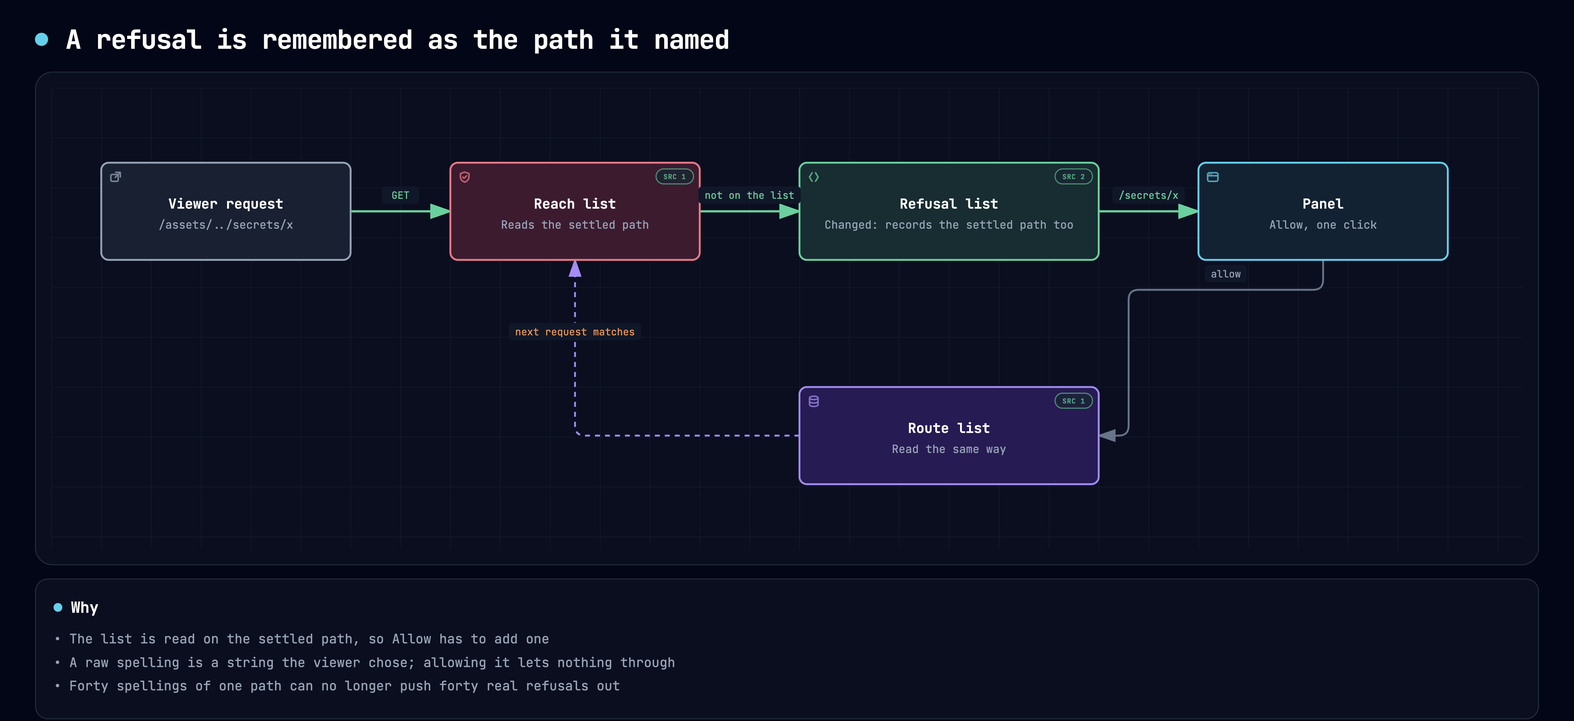
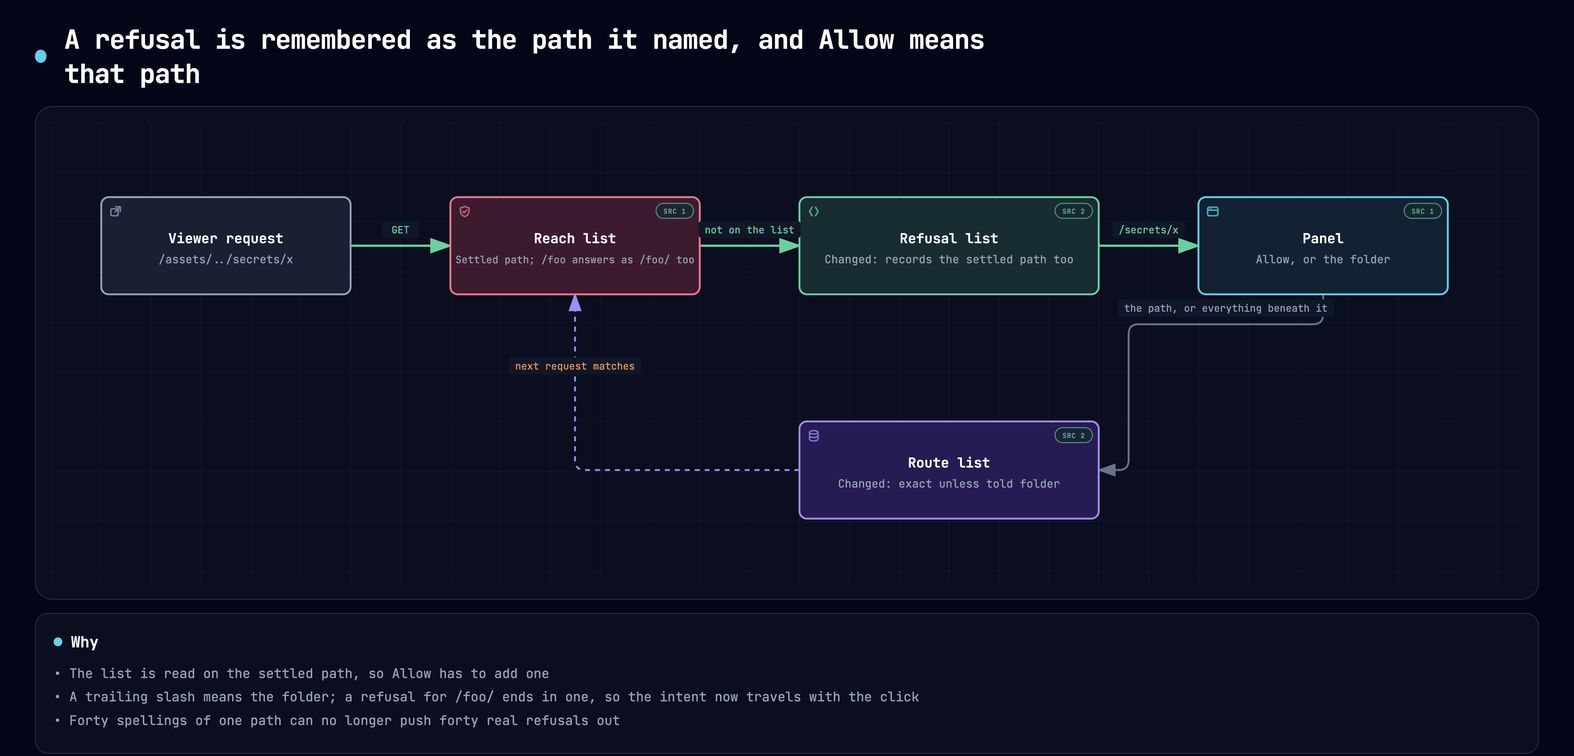
leglas: change map for pull request 61 covers the folder button too

diff --git a/projects/leglas/pull-requests/0061-refusal-settled/change-map.html b/projects/leglas/pull-requests/0061-refusal-settled/change-map.html
@@ -4,7 +4,7 @@
   <meta charset="UTF-8">
   <meta name="viewport" content="width=device-width, initial-scale=1.0">
   <meta name="generator" content="archify 2.17.0-dev.1">
-  <title>A refusal is remembered as the path it named Diagram</title>
+  <title>A refusal is remembered as the path it named, and Allow means that path Diagram</title>
   <script>
     // Resolve the theme before first paint so light-preference users don't
     // see a dark flash. The toolbar script below re-applies with UI state.
@@ -4955,12 +4955,12 @@
            data-preset-badge-blueprint="BLUEPRINT / REV 01"
            data-preset-badge-editorial="EDITORIAL / FIELD NOTE">
         <div class="pulse-dot"></div>
-        <h1>A refusal is remembered as the path it named</h1>
+        <h1>A refusal is remembered as the path it named, and Allow means that path</h1>
       </div>
     </div>
 
     <script id="archify-guided-views-data" type="application/json">[]</script>
-    <script id="archify-source-evidence-data" type="application/json">{"schemaVersion":1,"verified":true,"repository":{"url":"https://github.com/FredAmartey/leglas","revision":"210f2bacb432c3f054290c20ea1be06701551b32","shortRevision":"210f2ba"},"referenceCount":4,"nodes":{"list":[{"path":"packages/server/src/share.ts","line":101,"label":"routeAllowed","href":"https://github.com/FredAmartey/leglas/blob/210f2bacb432c3f054290c20ea1be06701551b32/packages/server/src/share.ts#L101"}],"refused":[{"path":"packages/server/src/share.ts","line":1208,"label":"request","href":"https://github.com/FredAmartey/leglas/blob/210f2bacb432c3f054290c20ea1be06701551b32/packages/server/src/share.ts#L1208"},{"path":"packages/server/src/share.ts","line":404,"label":"canonical","href":"https://github.com/FredAmartey/leglas/blob/210f2bacb432c3f054290c20ea1be06701551b32/packages/server/src/share.ts#L404"}],"routes":[{"path":"packages/server/src/share.ts","line":1523,"label":"allowRoute","href":"https://github.com/FredAmartey/leglas/blob/210f2bacb432c3f054290c20ea1be06701551b32/packages/server/src/share.ts#L1523"}]}}</script>
+    <script id="archify-source-evidence-data" type="application/json">{"schemaVersion":1,"verified":true,"repository":{"url":"https://github.com/FredAmartey/leglas","revision":"33f286f5ee3edfad5696799b97d1b4774b6cae2b","shortRevision":"33f286f"},"referenceCount":6,"nodes":{"list":[{"path":"packages/server/src/share.ts","line":101,"label":"routeAllowed","href":"https://github.com/FredAmartey/leglas/blob/33f286f5ee3edfad5696799b97d1b4774b6cae2b/packages/server/src/share.ts#L101"}],"refused":[{"path":"packages/server/src/share.ts","line":1214,"label":"request","href":"https://github.com/FredAmartey/leglas/blob/33f286f5ee3edfad5696799b97d1b4774b6cae2b/packages/server/src/share.ts#L1214"},{"path":"packages/server/src/share.ts","line":410,"label":"canonical","href":"https://github.com/FredAmartey/leglas/blob/33f286f5ee3edfad5696799b97d1b4774b6cae2b/packages/server/src/share.ts#L410"}],"panel":[{"path":"packages/shell/src/SharePanel.tsx","line":564,"label":"folder button","href":"https://github.com/FredAmartey/leglas/blob/33f286f5ee3edfad5696799b97d1b4774b6cae2b/packages/shell/src/SharePanel.tsx#L564"}],"routes":[{"path":"packages/server/src/share.ts","line":1529,"label":"allowRoute","href":"https://github.com/FredAmartey/leglas/blob/33f286f5ee3edfad5696799b97d1b4774b6cae2b/packages/server/src/share.ts#L1529"},{"path":"packages/server/src/share.ts","line":1541,"label":"subtree","href":"https://github.com/FredAmartey/leglas/blob/33f286f5ee3edfad5696799b97d1b4774b6cae2b/packages/server/src/share.ts#L1541"}]}}</script>
     <script id="archify-i18n-data" type="application/json">{"locale":"en","messages":{"viewer.kind.frontend":"Frontend","viewer.kind.backend":"Backend","viewer.kind.database":"Database","viewer.kind.cloud":"Cloud","viewer.kind.security":"Security","viewer.kind.messagebus":"Message bus","viewer.kind.external":"External","viewer.kind.neutral":"Neutral","viewer.kind.node":"Node","viewer.kind.start":"Start","viewer.kind.active":"Active","viewer.kind.waiting":"Waiting","viewer.kind.decision":"Decision","viewer.kind.success":"Success","viewer.kind.failure":"Failure","viewer.toolbar.actions":"Diagram actions","viewer.theme.toggle.title":"Toggle theme (T)","viewer.theme.toggle":"Toggle color theme","viewer.theme.dark":"Dark","viewer.theme.light":"Light","viewer.preset.choose.title":"Choose visual style (S cycles)","viewer.preset.choose":"Choose visual style","viewer.preset.style":"Style","viewer.preset.menu":"Visual style","viewer.preset.identity":"Visual identity","viewer.preset.cycles":"S cycles","viewer.preset.classic":"Classic","viewer.preset.classic.short":"Classic","viewer.preset.classic.hint":"Stable technical default","viewer.preset.flow":"Signal Flow","viewer.preset.flow.short":"Flow","viewer.preset.flow.hint":"Motion-forward presentation","viewer.preset.blueprint":"Blueprint","viewer.preset.blueprint.hint":"Engineering review","viewer.preset.editorial":"Editorial","viewer.preset.editorial.hint":"Publication and launch notes","viewer.preset.badge.signalFlow":"SIGNAL FLOW","viewer.preset.badge.blueprint":"BLUEPRINT / REV 01","viewer.preset.badge.editorial":"EDITORIAL / FIELD NOTE","viewer.preset.badge.editorialPlate":"ARCHIFY / PLATE 04","viewer.preset.current":"Visual style: {style}. Choose visual style","viewer.motion.live":"Live","viewer.motion.still":"Still","viewer.motion.pause":"Pause motion","viewer.motion.resume":"Resume motion","viewer.motion.reduced":"Motion paused by reduced-motion preference","viewer.motion.hidden":"Motion paused while this page is hidden","viewer.motion.yielding":"Pause motion; currently yielding to {owner}","viewer.motion.yielding.title":"Live preview enabled · yielding to {owner}","viewer.owner.story":"the guided story","viewer.owner.chapter":"the active chapter","viewer.owner.chapterPreview":"the chapter delta preview","viewer.owner.handoff":"the chapter handoff","viewer.owner.route":"Route Probe","viewer.owner.lens":"Semantic Lens","viewer.owner.relationship":"Relationship Preview","viewer.owner.intent":"Intent Trace","viewer.owner.focus":"semantic focus","viewer.owner.legend":"legend preview","viewer.owner.reader":"reader interaction","viewer.present.enter":"Enter presentation stage","viewer.present.enter.title":"Presentation stage (F)","viewer.present.exit":"Exit presentation stage","viewer.present.exit.title":"Exit presentation stage (F or Escape)","viewer.present.present":"Present","viewer.present.exit.label":"Exit","viewer.export.button":"Export","viewer.export.button.title":"Export diagram (E)","viewer.export.diagram":"Export diagram","viewer.export.menu":"Export","viewer.export.subtitle":"Portable, clean outputs","viewer.export.share":"Share","viewer.export.shareCard":"Share Card","viewer.export.routeShareCard":"Route Share Card","viewer.export.reachShareCard":"Reach Share Card","viewer.export.copyShareCard":"Copy Share Card","viewer.export.copyDiagram":"Copy diagram","viewer.export.clipboardPng":"PNG to clipboard","viewer.export.raster":"Raster images","viewer.export.image":"Image","viewer.export.lossless":"Lossless image","viewer.export.compact":"Compact image","viewer.export.modern":"Modern image","viewer.export.vectorMotion":"Vector and motion","viewer.export.vectorMotion.heading":"Vector \u0026 motion","viewer.export.editable":"Editable vector","viewer.export.motion6s":"6s motion","viewer.export.unsupported":"Not supported by this browser","viewer.export.clipboardUnsupported":"Clipboard image write not supported by this browser","viewer.export.clipboardUnsupported.period":"Clipboard image write not supported by this browser.","viewer.export.clipboardUnsupported.short":"Clipboard image write not supported in this browser.","viewer.export.motionUnavailable":"Motion capture unavailable in this browser","viewer.export.webmUnavailable":"WebM unavailable in this browser","viewer.export.failed":"Export failed: {message}","viewer.export.unknownVariant":"Unknown Share Card variant: {variant}","viewer.export.routeRequired":"Trace a route before exporting a Route Share Card","viewer.export.reachRequired":"Trace authored reach before exporting a Reach Share Card","viewer.export.unknown":"unknown","viewer.export.routeFailed":"Route Share Card export failed: {message}","viewer.export.reachFailed":"Reach Share Card export failed: {message}","viewer.export.copyFailed":"Copy failed: {message}","viewer.export.copiedPng":"Copied PNG to clipboard","viewer.export.copiedShare":"Copied Share Card","viewer.export.downloadedShare":"Downloaded Share Card","viewer.export.downloadedRoute":"Downloaded Route Share Card","viewer.export.downloadedReach":"Downloaded Reach Share Card","viewer.export.downloadedWebm":"Downloaded WebM","viewer.export.recording":"Recording 6 seconds of motion…","viewer.export.card.routeSummary.one":"Route: {source} → {target} · {count} directed hop","viewer.export.card.routeSummary.other":"Route: {source} → {target} · {count} directed hops","viewer.export.card.reachSummary":"Authored {direction} from {origin} · {nodes} · {links} · max {hops}","viewer.export.card.node.one":"{count} node","viewer.export.card.node.other":"{count} nodes","viewer.export.card.link.one":"{count} link","viewer.export.card.link.other":"{count} links","viewer.export.card.hop.one":"{count} hop","viewer.export.card.hop.other":"{count} hops","viewer.export.card.routeBadge":"ARCHIFY · ROUTE · {hops}","viewer.export.card.reachBadge":"ARCHIFY · {direction} REACH","viewer.export.card.defaultBadge":"ARCHIFY · {preset} · {theme}","viewer.export.direction.upstream":"Upstream","viewer.export.direction.downstream":"Downstream","viewer.export.error.canvasUnavailable":"Canvas unavailable for {label}","viewer.export.error.contextUnavailable":"2D canvas context unavailable for {label}","viewer.export.error.toBlobUnavailable":"canvas.toBlob unavailable for {label}","viewer.export.error.toBlobNull":"canvas.toBlob returned no data for {label}","viewer.export.error.variantsCombined":"Share Card variants cannot be combined","viewer.export.error.viewerState":"Share Card export could not remove temporary viewer state","viewer.export.error.routeState":"Route Card export could not preserve the resolved route safely","viewer.export.error.reachState":"Reach Card export could not preserve authored reach safely","viewer.export.error.webmRequirements":"WebM motion export requires a trace animation and browser MediaRecorder support","viewer.export.error.mediaRecorder":"MediaRecorder failed","viewer.export.error.emptyWebm":"MediaRecorder produced an empty WebM","viewer.export.error.webmBackground":"SVG background could not be loaded for WebM export","viewer.guided.region":"Guided diagram views","viewer.guided.previous":"Previous guided view","viewer.guided.previous.title":"Previous guided view ([)","viewer.guided.next":"Next guided view","viewer.guided.next.title":"Next guided view (])","viewer.guided.views":"Guided views","viewer.guided.explore":"Explore this system","viewer.guided.intro":"Step through curated paths without changing the source diagram.","viewer.guided.trail":"Story trail","viewer.guided.beat":"Beat","viewer.guided.nextBeat":"Next","viewer.guided.play":"Play guided story","viewer.guided.play.title":"Play guided story (P)","viewer.guided.pause":"Pause guided story","viewer.guided.pause.title":"Pause guided story (P)","viewer.guided.replay":"Replay guided story","viewer.guided.replay.title":"Replay guided story (P)","viewer.guided.playStory":"Play story","viewer.guided.pauseStory":"Pause","viewer.guided.replayStory":"Replay story","viewer.guided.motionUnavailable":"Story playback unavailable while motion is Still","viewer.guided.enableMotion":"Switch motion to Live to play the guided story","viewer.guided.selectBeatLink":"Select a Story Beat to copy its exact link","viewer.guided.copyMoment":"Copy moment","viewer.guided.momentCopied":"Moment link copied","viewer.guided.momentCopyFailed":"Could not copy story moment link","viewer.guided.copied":"Copied","viewer.guided.copyFailed":"Copy failed","viewer.guided.showAll":"Show all","viewer.guided.showAll.aria":"Show entire diagram","viewer.guided.chapters":"Story chapters","viewer.guided.storyTrail":"Story trail for {label}: {count} beats","viewer.guided.chapter.open":"Open chapter {index} of {total}: {label}, {count} stops","viewer.guided.chapter.current":"Current chapter {index} of {total}: {label}, {count} stops","viewer.guided.chapter.selectedNodes":"{count} selected nodes","viewer.guided.chapter.stops":"{count} stops","viewer.guided.chapter.stop.one":"{count} stop","viewer.guided.chapter.stop.other":"{count} stops","viewer.guided.chapter.current.title":"{label} — current chapter, {count} stops","viewer.guided.chapter.delta.expanded":"{stay} stay, {enter} enter, {leave} leave","viewer.guided.chapter.delta.aria":"Open chapter {index} of {total}: {label}. Chapter focus delta: {delta}","viewer.guided.chapter.delta.title":"{label} — {delta} chapter focus","viewer.guided.handoff":"{from} → {to} · via {label}","viewer.guided.share.chapter":"Chapter {index} / {total}","viewer.guided.share.initial":"Chapter 01 / 01","viewer.guided.share.default":"Guided chapter","viewer.guided.state.ready":"Ready","viewer.guided.state.playing":"Playing","viewer.guided.state.settled":"Settled","viewer.guided.state.paused":"Paused","viewer.guided.state.pinned":"Pinned","viewer.guided.state.still":"Still","viewer.guided.share.step":"Step {index} / {total} · {label}","viewer.guided.share.staticMoment":"{step} · Static moment","viewer.guided.share.complete":"{count} steps complete · {note}","viewer.guided.share.settled":"Path settled for reading.","viewer.guided.share.staticPath":"{count} steps · Static path","viewer.guided.share.ready":"{count} steps · Ready","viewer.guided.share.aria":"{state} chapter {index} of {total}: {label}. {beat}. {route}","viewer.guided.beat.start":"Beat {index} / {total} · {label} · starting point","viewer.guided.beat.forward":"Beat {index} / {total} · {from} → {to}","viewer.guided.beat.reverse":"Beat {index} / {total} · {from} → {to} · reverse authored link","viewer.guided.beat.multiple":"Beat {index} / {total} · {from} ⇄ {to} · {count} authored links","viewer.guided.beat.group":"Beat {index} / {total} · {from} · {to} · grouped · no direct link","viewer.guided.beat.aria.prefix":"Story beat {index} of {total}: {label}. ","viewer.guided.beat.aria.start":"Starting point.","viewer.guided.beat.aria.forward":"From {from} through one authored forward relationship.","viewer.guided.beat.aria.reverse":"From {from}; the authored relationship points from {to} to {from}.","viewer.guided.beat.aria.multiple":"From {from} through {count} authored relationships; shown without arbitrary motion.","viewer.guided.beat.aria.group":"Grouped from {from} with no direct authored relationship.","viewer.guided.caption.start":"Starting point","viewer.guided.caption.grouped":"Grouped transition · no direct authored link","viewer.guided.caption.more":" +{count} more","viewer.guided.caption.reverse":"Reverse authored relationship","viewer.guided.caption.relationships":"{count} authored relationships","viewer.guided.caption.relationship":"Authored relationship","viewer.guided.caption.direction":"authored direction: {from} → {to}","viewer.guided.caption.starting":"Authored starting point","viewer.guided.beatLink":"Copy link to current story moment: Beat {index} of {total}: {label}","viewer.guided.noStory":"This diagram has no authored guided story.","viewer.guide.eyebrow":"Diagram guide","viewer.guide.close":"Close diagram guide","viewer.guide.inspecting":"Inspecting compiled semantics","viewer.guide.actions":"Diagram exploration actions","viewer.guide.find":"Find any node","viewer.guide.find.hint":"Search labels, responsibilities, kinds, and stable IDs.","viewer.guide.route":"Trace a route","viewer.guide.route.aria":"Trace a directed route","viewer.guide.route.hint":"Ask how two semantic nodes connect in authored direction.","viewer.guide.map":"See the whole system","viewer.guide.map.hint":"Open Semantic Radar with a live viewport and stable nodes.","viewer.guide.lens":"Compare semantic kinds","viewer.guide.lens.hint":"Count roles, reveal their traffic, and compare direct authored links.","viewer.guide.story":"Play the guided story","viewer.guide.story.hint":"Walk the authored chapters and real relationships.","viewer.guide.present":"Enter Presentation Stage","viewer.guide.present.hint":"Give the live diagram the viewport without changing export.","viewer.guide.shortcuts":"Additional keyboard shortcuts","viewer.guide.shortcut.export":"Export","viewer.guide.shortcut.theme":"Theme","viewer.guide.shortcut.style":"Style","viewer.guide.shortcut.reset":"Reset","viewer.guide.shortcut.zoomIn":"Zoom in","viewer.guide.shortcut.zoomOut":"Zoom out","viewer.guide.shortcut.close":"Close","viewer.guide.facts":"{nodes} · {relationships} · {views}","viewer.guide.fact.node.one":"{count} semantic node","viewer.guide.fact.node.other":"{count} semantic nodes","viewer.guide.fact.relationship.one":"{count} relationship","viewer.guide.fact.relationship.other":"{count} relationships","viewer.guide.fact.view.one":"{count} guided view","viewer.guide.fact.view.other":"{count} guided views","viewer.guide.story.available.one":"Walk {count} authored chapter and its real relationships.","viewer.guide.story.available.other":"Walk {count} authored chapters and their real relationships.","viewer.guide.story.unavailable":"No authored guided story in this diagram.","viewer.guide.open":"Open diagram guide","viewer.guide.noStory":"This diagram has no authored guided story.","viewer.finder.title":"Find a node","viewer.finder.close":"Close node finder","viewer.finder.placeholder":"Search labels or IDs","viewer.finder.search":"Search diagram nodes","viewer.finder.results":"Diagram nodes","viewer.finder.empty":"No matching nodes","viewer.finder.result.focus":"Focus {label}","viewer.finder.result.routeStart":"Choose {label} as route start","viewer.finder.result.routeTarget":"Choose {label} as route destination, {links}","viewer.finder.status.empty":"No matching nodes","viewer.finder.status.count.one":"{count} matching node","viewer.finder.status.count.other":"{count} matching nodes","viewer.finder.noun.nodes":"nodes","viewer.finder.link.one":"{count} link","viewer.finder.link.other":"{count} links","viewer.finder.result.focus.one":"Focus {label}, {count} related connection","viewer.finder.result.focus.other":"Focus {label}, {count} related connections","viewer.finder.status.filtered":"{visible} of {available} {noun}","viewer.finder.status.all":"{available} {noun}","viewer.passport.eyebrow":"Semantic passport","viewer.passport.metadata":"Node metadata","viewer.passport.evidence":"Verified source evidence","viewer.passport.verified":"Verified source","viewer.passport.reach":"Authored reach","viewer.passport.reach.trace":"Trace authored reachability","viewer.passport.upstream":"Upstream","viewer.passport.downstream":"Downstream","viewer.passport.upstream.trace":"Trace upstream authored reachability","viewer.passport.downstream.trace":"Trace downstream authored reachability","viewer.passport.close":"Close semantic passport","viewer.passport.copy":"Copy link","viewer.passport.copy.focus":"Copy link to focused node","viewer.passport.relations":"Relations","viewer.passport.relations.show":"Show connected relationships","viewer.passport.relations.hide":"Hide connected relationships","viewer.passport.relations.list":"Connected relationships","viewer.passport.copyRelation":"Copy relation","viewer.passport.copyNode":"Copy node","viewer.passport.copyPinned":"Copy link to pinned relationship","viewer.passport.copySource":"Copy link to source node","viewer.passport.copy.focused.success":"Focused node link copied","viewer.passport.copy.pinned.success":"Pinned relationship link copied","viewer.passport.copy.focused.failed":"Could not copy focused node link","viewer.passport.copy.pinned.failed":"Could not copy pinned relationship link","viewer.passport.relationship.none":"No connected relationships","viewer.passport.relationship.count.one":"{count} relation","viewer.passport.relationship.count.other":"{count} relations","viewer.passport.relationship.show.one":"Show {count} connected relationship","viewer.passport.relationship.show.other":"Show {count} connected relationships","viewer.passport.relationship.summary":"{out} outgoing · {in} incoming{loops}","viewer.passport.relationship.loops":" · {count} loop","viewer.passport.relationship.explorer":"Direct relationship explorer","viewer.passport.relationship.help":"Use arrow keys to explore relationships. Press Enter or Space to pin details; Escape clears.","viewer.passport.relationship.loopsBack":"loops back","viewer.passport.relationship.connectsTo":"connects to","viewer.passport.relationship.connectsFrom":"connects from","viewer.passport.relationship.pinned":"Pinned relationship · {from} → {to} · {label}","viewer.passport.relationship.inspect":"Inspect relationship {index} of {total}: {from} to {to}, {label}. Press Enter for details.","viewer.passport.relationship.group.out":"Outgoing","viewer.passport.relationship.group.in":"Incoming","viewer.passport.relationship.group.loop":"Self loops","viewer.passport.relationship.row":"{group}: {relationship}, {neighbor}","viewer.passport.relationship.direction.out":"OUT →","viewer.passport.relationship.direction.in":"← IN","viewer.passport.relationship.direction.loop":"LOOP","viewer.passport.sourceCount.one":"{count} verified source reference","viewer.passport.sourceCount.other":"{count} verified source references","viewer.passport.sourceMarker":"SRC","viewer.passport.beacon.one":"{count} verified source; focus this node to inspect","viewer.passport.beacon.other":"{count} verified sources; focus this node to inspect","viewer.passport.repository.open":"Open verified repository revision {revision}","viewer.passport.source.open":"Open verified source {path} at revision {revision}","viewer.passport.source.openLink":"Open ↗","viewer.passport.reach.upstream.one":"Trace {count} upstream authored node","viewer.passport.reach.upstream.other":"Trace {count} upstream authored nodes","viewer.passport.reach.downstream.one":"Trace {count} downstream authored node","viewer.passport.reach.downstream.other":"Trace {count} downstream authored nodes","viewer.passport.reach.noUpstream":"No upstream authored nodes","viewer.passport.reach.noDownstream":"No downstream authored nodes","viewer.passport.reach.status":"{direction} · {nodes} nodes · {links} links · max {hops} hops","viewer.route.eyebrow":"Route probe","viewer.route.start":"Choose a start node","viewer.route.start.find":"Find start","viewer.route.start.find.aria":"Find a route start","viewer.route.copy":"Copy link","viewer.route.copy.aria":"Copy link to traced route","viewer.route.clear":"Clear","viewer.route.clear.aria":"Clear route probe","viewer.route.traced":"Traced route","viewer.route.pickTwo":"Pick two semantic nodes on the diagram","viewer.route.pickOne":"Pick a semantic node on the diagram","viewer.route.controls":"Route journey controls","viewer.route.previous":"Previous route position","viewer.route.play":"Play route journey","viewer.route.pause":"Pause route journey","viewer.route.replay":"Replay route journey","viewer.route.next":"Next route position","viewer.route.journey":"Journey","viewer.route.pause.label":"Pause","viewer.route.replay.label":"Replay","viewer.route.overview":"Overview","viewer.route.overview.aria":"Show complete route overview","viewer.route.instructions":"Choose the source, then the destination. Direction matters.","viewer.route.destination":"Choose a destination from {label}","viewer.route.destination.find":"Find target","viewer.route.destination.find.aria":"Find a reachable route destination","viewer.route.differentDestination":"Choose a different destination","viewer.route.distinct":"A route needs two distinct semantic nodes.","viewer.route.unreachable":"No directed route to {label}","viewer.route.unreachable.detail":"{target} is not reachable from {source}. Pick a highlighted destination.","viewer.route.start.instructions":"Select the source. The next step will reveal only directed destinations.","viewer.route.copy.success":"Traced route link copied","viewer.route.copy.failed":"Could not copy traced route link","viewer.route.position":"Route position {index} of {total}: {label}","viewer.route.step":"Step {index} of {total} · {phase} · {label}","viewer.route.motionRequired":"Automatic journey requires Live motion","viewer.route.trigger.clear":"Clear traced route","viewer.route.overview.status":"{nodes} · {hops} · shortest authored route","viewer.route.overview.node.one":"{count} node","viewer.route.overview.node.other":"{count} nodes","viewer.route.overview.hop.one":"{count} directed hop","viewer.route.overview.hop.other":"{count} directed hops","viewer.route.phase.playing":"Playing","viewer.route.phase.complete":"Complete","viewer.route.phase.inspecting":"Inspecting","viewer.route.destination.count.one":"{count} directed destination available. Pick a highlighted node.","viewer.route.destination.count.other":"{count} directed destinations available. Pick a highlighted node.","viewer.route.noOutgoing":"No outgoing route starts here. Clear and choose another source.","viewer.route.result.title":"{source} to {target}","viewer.route.finder.source.title":"Choose route start","viewer.route.finder.source.placeholder":"Search route sources","viewer.route.finder.source.empty":"No matching route sources","viewer.route.finder.source.results":"Nodes that can start a route","viewer.route.finder.source.noun":"route sources","viewer.route.finder.source.badge":"start","viewer.route.finder.target.title":"Destination from {label}","viewer.route.finder.target.placeholder":"Search reachable destinations","viewer.route.finder.target.empty":"No matching reachable destinations","viewer.route.finder.target.results":"Reachable route destinations","viewer.route.finder.target.noun":"reachable destinations","viewer.route.hop.one":"{count} hop","viewer.route.hop.other":"{count} hops","viewer.lens.eyebrow":"Semantic lens","viewer.lens.title":"Compare system roles","viewer.lens.close":"Close semantic lens","viewer.lens.instruction":"Choose up to two semantic kinds. One reveals its real traffic; two compare only direct authored relationships.","viewer.lens.kinds":"Semantic kinds","viewer.lens.choose":"Choose a kind to inspect its nodes and touching relationships.","viewer.lens.copy":"Copy link to semantic lens","viewer.lens.clear":"Clear semantic lens","viewer.lens.open":"Open semantic lens","viewer.lens.openActive":"Open active semantic lens","viewer.lens.legend":"Semantic legend","viewer.lens.legend.inspect.one":"Inspect {label}, {count} node","viewer.lens.legend.inspect.other":"Inspect {label}, {count} nodes","viewer.lens.kind.count.one":"{label}, {count} node","viewer.lens.kind.count.other":"{label}, {count} nodes","viewer.lens.compare.one":"{first} → {second}: {forward} · {second} → {first}: {reverse} · {count} direct relationship","viewer.lens.compare.other":"{first} → {second}: {forward} · {second} → {first}: {reverse} · {count} direct relationships","viewer.lens.single":"{nodes} · {relationships} · connected peers remain visible","viewer.lens.node.one":"{count} {label} node","viewer.lens.node.other":"{count} {label} nodes","viewer.lens.relationship.one":"{count} touching relationship","viewer.lens.relationship.other":"{count} touching relationships","viewer.radar.title":"Semantic radar","viewer.radar.building":"Building overview","viewer.radar.openFull":"Open full semantic radar","viewer.radar.open":"Open radar","viewer.radar.close":"Close semantic radar","viewer.radar.surface":"Diagram overview. Click a node to focus it, or use arrow keys to pan.","viewer.radar.click":"Click node","viewer.radar.drag":"Drag to pan","viewer.radar.space":"Semantic radar needs more MAP space.","viewer.radar.nodes":"Semantic diagram radar nodes","viewer.radar.focus":"Focus {label} from Semantic Radar","viewer.radar.status":"{count} nodes · {viewport}","viewer.radar.fullMap":"{count} nodes · full map","viewer.radar.compacted":"Radar compacted to avoid covering the Semantic Passport or MAP controls.","viewer.radar.cancelWaiting":"Cancel semantic radar waiting for more MAP space","viewer.radar.needsSpace":"Semantic radar needs more visible MAP space","viewer.radar.viewport.full":"full map","viewer.radar.viewport.width":"{percent}% width","viewer.radar.viewport.scale":"{percent}% viewport","viewer.nav.controls":"Diagram view controls","viewer.nav.route":"Trace a directed route","viewer.nav.route.title":"Trace route (R)","viewer.nav.route.short":"PATH","viewer.nav.radar":"Open semantic radar","viewer.nav.radar.title":"Semantic radar (M)","viewer.nav.radar.short":"MAP","viewer.nav.lens":"Open semantic lens","viewer.nav.lens.title":"Semantic lens (L)","viewer.nav.lens.short":"LENS","viewer.nav.find":"Find a node","viewer.nav.find.title":"Find a node (/)","viewer.nav.guide":"Open diagram guide","viewer.nav.guide.title":"Diagram guide (?)","viewer.nav.zoomOut":"Zoom out","viewer.nav.zoomOut.title":"Zoom out (-)","viewer.nav.reset":"Reset diagram view","viewer.nav.reset.title":"Reset view (0)","viewer.nav.read":"READ","viewer.nav.zoomIn":"Zoom in","viewer.nav.zoomIn.title":"Zoom in (+)","viewer.nav.camera":"{hint}. Reset diagram view","viewer.nav.camera.title":"{semantic}{hint} · reset view (0)","viewer.nav.camera.semantic":"Semantic camera active · ","viewer.nav.level.map":"MAP","viewer.nav.level.read":"READ","viewer.nav.level.full":"FULL","viewer.nav.level.auto":"AUTO","viewer.nav.detail.map":"Zoom in to reveal relationship labels and node context","viewer.nav.detail.read":"Zoom in again to reveal tags and annotations","viewer.nav.detail.full":"Full diagram detail","viewer.intent.summary":"{label}. {out} outgoing, {in} incoming{loops}. {total} connections. Press Enter for details.","viewer.intent.loops":", {count} self loop","viewer.common.copied":"Copied","viewer.common.copyFailed":"Copy failed","viewer.common.copyLink":"Copy link","viewer.common.clear":"Clear","viewer.common.close":"Close"}}</script>
     <div class="guided-views no-print" id="guided-views" hidden aria-label="Guided diagram views">
       <button id="guided-view-prev" type="button" aria-label="Previous guided view" title="Previous guided view ([)">&#8592;</button>
@@ -5005,7 +5005,7 @@
     <div class="diagram-container" data-detail-level="read"
          data-preset-badge-editorial-plate="ARCHIFY / PLATE 04">
       <svg viewBox="0 0 1180 370" role="img" lang="en" aria-labelledby="archify-diagram-title archify-diagram-description" data-preset="classic" data-quality-profile="showcase">
-        <title id="archify-diagram-title">A refusal is remembered as the path it named</title>
+        <title id="archify-diagram-title">A refusal is remembered as the path it named, and Allow means that path</title>
         <desc id="archify-diagram-description">An architecture diagram generated by Archify.</desc>
         <!-- Definitions -->
         <defs>
@@ -5036,7 +5036,7 @@
         <path data-edge-from="viewer" data-edge-to="list" data-edge-label="GET" data-edge-key="0" data-edge-id="viewer-list" data-composition-points="240,99;320,99" d="M 240 99 L 320 99" class="a-emphasis" stroke-width="1.8" marker-end="url(#arrowhead-emphasis)"/>
         <path data-edge-from="list" data-edge-to="refused" data-edge-label="not on the list" data-edge-key="1" data-edge-id="list-refused" data-composition-points="520,99;600,99" d="M 520 99 L 600 99" class="a-emphasis" stroke-width="1.8" marker-end="url(#arrowhead-emphasis)"/>
         <path data-edge-from="refused" data-edge-to="panel" data-edge-label="/secrets/x" data-edge-key="2" data-edge-id="refused-panel" data-composition-points="840,99;920,99" d="M 840 99 L 920 99" class="a-emphasis" stroke-width="1.8" marker-end="url(#arrowhead-emphasis)"/>
-        <path data-edge-from="panel" data-edge-to="routes" data-edge-label="allow" data-edge-key="3" data-edge-id="panel-routes" data-composition-points="1020,138;1020,162;864,162;864,279;840,279" d="M 1020 138 L 1020 154 Q 1020 162 1012 162 L 872 162 Q 864 162 864 170 L 864 271 Q 864 279 856 279 L 840 279" class="a-default" stroke-width="1.5" marker-end="url(#arrowhead)"/>
+        <path data-edge-from="panel" data-edge-to="routes" data-edge-label="the path, or everything beneath it" data-edge-key="3" data-edge-id="panel-routes" data-composition-points="1020,138;1020,162;864,162;864,279;840,279" d="M 1020 138 L 1020 154 Q 1020 162 1012 162 L 872 162 Q 864 162 864 170 L 864 271 Q 864 279 856 279 L 840 279" class="a-default" stroke-width="1.5" marker-end="url(#arrowhead)"/>
         <path data-edge-from="routes" data-edge-to="list" data-edge-label="next request matches" data-edge-key="4" data-edge-id="routes-list" data-composition-points="600,279;420,279;420,138" d="M 600 279 L 428 279 Q 420 279 420 271 L 420 138" class="a-dashed" stroke-width="1.5" marker-end="url(#arrowhead-dashed)"/>
 
         <!-- Components -->
@@ -5052,8 +5052,8 @@
         <text data-detail="context" x="140" y="113" class="t-muted" font-size="9" text-anchor="middle">/assets/../secrets/x</text>
         </g>
 
-        <g id="node-list" data-node-id="list" data-node-label="Reach list" tabindex="0" role="button" aria-label="Focus Reach list, Reads the settled path, Architecture component" aria-pressed="false" data-node-kind="security" data-node-sublabel="Reads the settled path" data-node-context="Architecture component">
-          <title>Reach list · Reads the settled path · Architecture component</title>
+        <g id="node-list" data-node-id="list" data-node-label="Reach list" tabindex="0" role="button" aria-label="Focus Reach list, Settled path; /foo answers as /foo/ too, Architecture component" aria-pressed="false" data-node-kind="security" data-node-sublabel="Settled path; /foo answers as /foo/ too" data-node-context="Architecture component">
+          <title>Reach list · Settled path; /foo answers as /foo/ too · Architecture component</title>
           <rect x="320" y="60" width="200" height="78" rx="6" class="c-mask"/>
           <rect x="320" y="60" width="200" height="78" rx="6" class="c-security" stroke-width="1.5"/>
           <g aria-hidden="true" data-semantic-sigil="security" class="semantic-sigil s-security" transform="translate(326 66) scale(0.6875)">
@@ -5061,7 +5061,7 @@
             <path d="m5.8 8 1.5 1.5 3-3"/>
           </g>
           <text data-node-label="" data-detail-anchor="" x="420" y="97" class="t-primary" font-size="11" font-weight="600" text-anchor="middle">Reach list</text>
-        <text data-detail="context" x="420" y="113" class="t-muted" font-size="9" text-anchor="middle">Reads the settled path</text>
+        <text data-detail="context" x="420" y="113" class="t-muted" font-size="8.2" text-anchor="middle">Settled path; /foo answers as /foo/ too</text>
         </g>
 
         <g id="node-refused" data-node-id="refused" data-node-label="Refusal list" tabindex="0" role="button" aria-label="Focus Refusal list, Changed: records the settled path too, Architecture component" aria-pressed="false" data-node-kind="backend" data-node-sublabel="Changed: records the settled path too" data-node-tag="changed" data-node-context="Architecture component">
@@ -5076,8 +5076,8 @@
         <text data-detail="fine" x="720" y="130" class="t-backend" font-size="7" text-anchor="middle">changed</text>
         </g>
 
-        <g id="node-panel" data-node-id="panel" data-node-label="Panel" tabindex="0" role="button" aria-label="Focus Panel, Allow, one click, Architecture component" aria-pressed="false" data-node-kind="frontend" data-node-sublabel="Allow, one click" data-node-context="Architecture component">
-          <title>Panel · Allow, one click · Architecture component</title>
+        <g id="node-panel" data-node-id="panel" data-node-label="Panel" tabindex="0" role="button" aria-label="Focus Panel, Allow, or the folder, Architecture component" aria-pressed="false" data-node-kind="frontend" data-node-sublabel="Allow, or the folder" data-node-tag="changed" data-node-context="Architecture component">
+          <title>Panel · Allow, or the folder · Architecture component · changed</title>
           <rect x="920" y="60" width="200" height="78" rx="6" class="c-mask"/>
           <rect x="920" y="60" width="200" height="78" rx="6" class="c-frontend" stroke-width="1.5"/>
           <g aria-hidden="true" data-semantic-sigil="frontend" class="semantic-sigil s-frontend" transform="translate(926 66) scale(0.6875)">
@@ -5087,11 +5087,12 @@
             <circle cx="6.3" cy="4.8" r=".7" class="sigil-fill"/>
           </g>
           <text data-node-label="" data-detail-anchor="" x="1020" y="97" class="t-primary" font-size="11" font-weight="600" text-anchor="middle">Panel</text>
-        <text data-detail="context" x="1020" y="113" class="t-muted" font-size="9" text-anchor="middle">Allow, one click</text>
+        <text data-detail="context" x="1020" y="113" class="t-muted" font-size="9" text-anchor="middle">Allow, or the folder</text>
+        <text data-detail="fine" x="1020" y="130" class="t-frontend" font-size="7" text-anchor="middle">changed</text>
         </g>
 
-        <g id="node-routes" data-node-id="routes" data-node-label="Route list" tabindex="0" role="button" aria-label="Focus Route list, Read the same way, Architecture component" aria-pressed="false" data-node-kind="database" data-node-sublabel="Read the same way" data-node-context="Architecture component">
-          <title>Route list · Read the same way · Architecture component</title>
+        <g id="node-routes" data-node-id="routes" data-node-label="Route list" tabindex="0" role="button" aria-label="Focus Route list, Changed: exact unless told folder, Architecture component" aria-pressed="false" data-node-kind="database" data-node-sublabel="Changed: exact unless told folder" data-node-tag="changed" data-node-context="Architecture component">
+          <title>Route list · Changed: exact unless told folder · Architecture component · changed</title>
           <rect x="600" y="240" width="240" height="78" rx="6" class="c-mask"/>
           <rect x="600" y="240" width="240" height="78" rx="6" class="c-database" stroke-width="1.5"/>
           <g aria-hidden="true" data-semantic-sigil="database" class="semantic-sigil s-database" transform="translate(606 246) scale(0.6875)">
@@ -5099,7 +5100,8 @@
             <path d="M3 4v8c0 1.1 2.2 2 5 2s5-.9 5-2V4M3 8c0 1.1 2.2 2 5 2s5-.9 5-2"/>
           </g>
           <text data-node-label="" data-detail-anchor="" x="720" y="277" class="t-primary" font-size="11" font-weight="600" text-anchor="middle">Route list</text>
-        <text data-detail="context" x="720" y="293" class="t-muted" font-size="9" text-anchor="middle">Read the same way</text>
+        <text data-detail="context" x="720" y="293" class="t-muted" font-size="9" text-anchor="middle">Changed: exact unless told folder</text>
+        <text data-detail="fine" x="720" y="310" class="t-database" font-size="7" text-anchor="middle">changed</text>
         </g>
 
         <!-- Connection labels -->
@@ -5115,9 +5117,9 @@
           <rect x="851" y="79" width="58" height="14" rx="3" class="c-mask"/>
           <text x="880" y="89" class="t-backend" font-size="8" text-anchor="middle">/secrets/x</text>
         </g>
-        <g data-detail="context" data-edge-from="panel" data-edge-to="routes" data-edge-label="allow" data-edge-key="3" data-edge-id="panel-routes">
-          <rect x="925" y="142" width="34" height="14" rx="3" class="c-mask"/>
-          <text x="942" y="152" class="t-muted" font-size="8" text-anchor="middle">allow</text>
+        <g data-detail="context" data-edge-from="panel" data-edge-to="routes" data-edge-label="the path, or everything beneath it" data-edge-key="3" data-edge-id="panel-routes">
+          <rect x="855.4" y="142" width="173.2" height="14" rx="3" class="c-mask"/>
+          <text x="942" y="152" class="t-muted" font-size="8" text-anchor="middle">the path, or everything beneath it</text>
         </g>
         <g data-detail="context" data-edge-from="routes" data-edge-to="list" data-edge-label="next request matches" data-edge-key="4" data-edge-id="routes-list">
           <rect x="367" y="188.5" width="106" height="14" rx="3" class="c-mask"/>
@@ -5322,7 +5324,7 @@
         </div>
         <ul>
           <li>&bull; The list is read on the settled path, so Allow has to add one</li>
-          <li>&bull; A raw spelling is a string the viewer chose; allowing it lets nothing through</li>
+          <li>&bull; A trailing slash means the folder; a refusal for /foo/ ends in one, so the intent now travels with the click</li>
           <li>&bull; Forty spellings of one path can no longer push forty real refusals out</li>
         </ul>
       </div>
